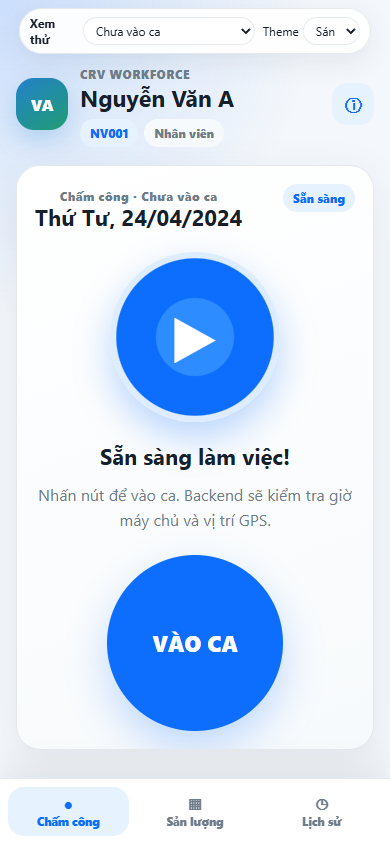
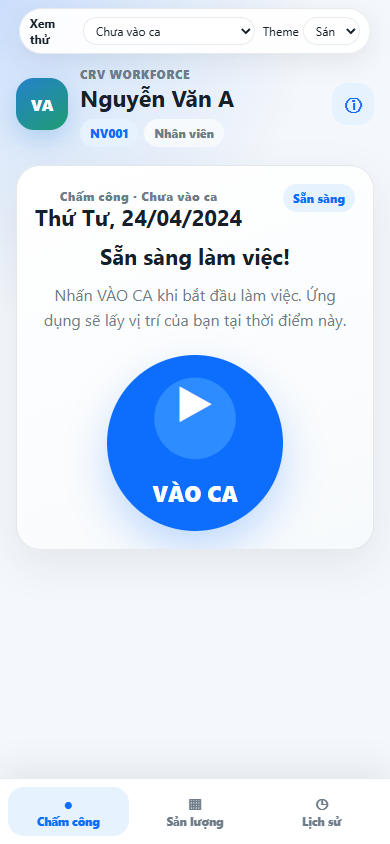
fix: mot nut VAO CA duy nhat, bo tu ky thuat tren giao dien

Changed region(s): [[0.1231, 0.2773, 0.8923, 0.8934], [0.0923, 0.5853, 0.2462, 0.6161], [0.8, 0.5853, 0.8923, 0.6161]]

diff --git a/webapp/src/features/attendance/AttendanceScreen.tsx b/webapp/src/features/attendance/AttendanceScreen.tsx
@@ -1,6 +1,6 @@
 import {useCallback, useEffect, useMemo, useState} from "react";
 import {ApiError, api} from "../../api/client";
-import {Button, Card, Chip, Metric, ScreenState, SectionTitle} from "../../components/ui";
+import {Button, Card, Chip, Metric, ScreenState} from "../../components/ui";
 import {elapsedMinutes, elapsedSeconds, temporarySalary} from "../../lib/clock";
 import {fmtClock, fmtDateLong, fmtDuration} from "../../lib/date-vn";
 import {fmtMoney} from "../../lib/format";
@@ -12,10 +12,10 @@ import type {Today, WorkSession} from "../../types/api";
 function gpsText(session?: WorkSession | null) {
   if (!session) return null;
   if (session.flags.includes("gps_out_of_range")) {
-    return {tone: "warning" as const, text: `Vị trí ngoài xưởng – đã gắn cờ · cách ${Math.round(session.check_in_distance_m)} m`};
+    return {tone: "warning" as const, text: `Vị trí ngoài xưởng – cần quản lý xem lại · cách ${Math.round(session.check_in_distance_m)} m`};
   }
   if (session.flags.includes("gps_low_accuracy")) {
-    return {tone: "warning" as const, text: "GPS sai số lớn – đã gắn cờ"};
+    return {tone: "warning" as const, text: "Vị trí chưa đủ chính xác – cần quản lý xem lại"};
   }
   return {tone: "success" as const, text: `Trong khu vực xưởng (${Math.round(session.check_in_distance_m)} m)`};
 }
@@ -131,7 +131,7 @@ export function AttendanceScreen({onNeedConsent, onCheckedOut}: {onNeedConsent: 
           {confirmOut && (
             <div className="confirm-box">
               <b>Xác nhận ra ca?</b>
-              <p>Hệ thống sẽ lấy vị trí hiện tại và khóa thời điểm ra ca theo giờ máy chủ.</p>
+              <p>Ứng dụng sẽ lấy vị trí hiện tại và ghi nhận giờ ra ca theo giờ hệ thống.</p>
             </div>
           )}
           {error && <p className="form-error">{error}</p>}
@@ -152,11 +152,26 @@ export function AttendanceScreen({onNeedConsent, onCheckedOut}: {onNeedConsent: 
           </div>
           <Chip tone={afterCutoff ? "warning" : "info"}>{afterCutoff ? "Đã qua giờ" : "Sẵn sàng"}</Chip>
         </div>
-        <div className="clock-illustration">{afterCutoff ? "☾" : "▶"}</div>
+        {afterCutoff && <div className="clock-illustration clock-illustration--decorative" aria-hidden="true">☾</div>}
         <h2>{afterCutoff ? `Đã qua ${today.checkin_cutoff}` : "Sẵn sàng làm việc!"}</h2>
-        <p className="muted">{afterCutoff ? `Không thể vào ca từ ${today.checkin_cutoff}. Vui lòng quay lại vào ngày mai.` : "Nhấn nút để vào ca. Backend sẽ kiểm tra giờ máy chủ và vị trí GPS."}</p>
+        <p className="muted">{afterCutoff ? `Không thể vào ca từ ${today.checkin_cutoff}. Vui lòng quay lại vào ngày mai.` : "Nhấn VÀO CA khi bắt đầu làm việc. Ứng dụng sẽ lấy vị trí của bạn tại thời điểm này."}</p>
         {error && <p className="form-error">{error}</p>}
-        <Button className="round-action" disabled={!today.can_check_in} busy={busy} onClick={runAction}>VÀO CA</Button>
+        <button
+          type="button"
+          className="round-action"
+          disabled={!today.can_check_in || busy}
+          aria-disabled={!today.can_check_in || busy}
+          onClick={runAction}
+        >
+          {busy ? (
+            <span className="round-action__spinner" aria-label="Đang xử lý" />
+          ) : (
+            <>
+              <span className="round-action__icon" aria-hidden="true">▶</span>
+              <span>VÀO CA</span>
+            </>
+          )}
+        </button>
       </Card>
     </div>
   );

diff --git a/webapp/src/features/manager/payroll/PayrollScreen.tsx b/webapp/src/features/manager/payroll/PayrollScreen.tsx
@@ -18,7 +18,7 @@ function payrollDone(row: PayrollSummary) {
 export function payrollStatusText(row: PayrollSummary): string {
   if (!row.has_sessions) return "Chưa có phiên";
   if (row.can_approve) return "Có thể duyệt";
-  if (row.blocked_amount > 0) return "Cần xử lý GPS";
+  if (row.blocked_amount > 0) return "Cần xem lại vị trí";
   if (payrollDone(row)) return "Đã trả hết";
   return "Chưa đủ điều kiện";
 }
@@ -122,9 +122,9 @@ export function PayrollScreen({onOpenReviewGps}: {onOpenReviewGps?: () => void} 
                   onClick={(event) => event.stopPropagation()}
                   onChange={() => setSelectedIds((ids) => checked ? ids.filter((id) => id !== row.employee_id) : [...ids, row.employee_id])}
                 />
-              ) : payrollStatusText(row) === "Cần xử lý GPS" ? (
+              ) : payrollStatusText(row) === "Cần xem lại vị trí" ? (
                 <div className="inline-actions">
-                  <Chip tone="warning">Cần xử lý GPS · {fmtMoney(row.blocked_amount)}</Chip>
+                  <Chip tone="warning">Cần xem lại vị trí · {fmtMoney(row.blocked_amount)}</Chip>
                   <Button tone="secondary" onClick={(event) => { event.stopPropagation(); onOpenReviewGps?.(); }}>Xem</Button>
                 </div>
               ) : payrollStatusText(row) === "Đã trả hết" ? (
@@ -135,7 +135,7 @@ export function PayrollScreen({onOpenReviewGps}: {onOpenReviewGps?: () => void} 
             </div>
             <div className="mini-grid">
               <Metric label="Chờ duyệt" value={fmtMoney(row.pending_amount)} tone={row.pending_amount ? "warning" : "neutral"} />
-              <Metric label="Cần xử lý GPS" value={fmtMoney(row.blocked_amount)} tone={row.blocked_amount ? "warning" : "neutral"} />
+              <Metric label="Cần xem lại vị trí" value={fmtMoney(row.blocked_amount)} tone={row.blocked_amount ? "warning" : "neutral"} />
               <Metric label="Đã trả hôm nay" value={fmtMoney(row.paid_amount)} />
             </div>
             {row.pending_reasons.filter((reason) => reason !== "open_session").map((reason) => <p key={reason} className="muted">{pendingText(reason as PayrollSummary["pending_reason"])}</p>)}

diff --git a/webapp/src/features/manager/review/ReviewScreen.tsx b/webapp/src/features/manager/review/ReviewScreen.tsx
@@ -81,7 +81,7 @@ export function ReviewScreen({initialFilter = "all"}: {initialFilter?: "all" | "
       <div className="segmented">
         {(["all", "gps", "forgot"] as const).map((key) => (
           <button key={key} className={filter === key ? "active" : ""} onClick={() => setFilter(key)}>
-            {key === "all" ? `Tất cả (${pending.length})` : key === "gps" ? `GPS (${gpsCount})` : `Quên ra ca (${forgotCount})`}
+            {key === "all" ? `Tất cả (${pending.length})` : key === "gps" ? `Vị trí (${gpsCount})` : `Quên ra ca (${forgotCount})`}
           </button>
         ))}
       </div>
@@ -99,7 +99,7 @@ export function ReviewScreen({initialFilter = "all"}: {initialFilter?: "all" | "
                 <b>{row.employee_name}</b>
                 <small>{row.employee_code} · Vào ca {fmtTime(row.check_in_at)}</small>
               </div>
-              <Chip tone={type === "gps" ? "warning" : "danger"}>{type === "gps" ? "GPS" : "Quên ra ca"}</Chip>
+              <Chip tone={type === "gps" ? "warning" : "danger"}>{type === "gps" ? "Vị trí" : "Quên ra ca"}</Chip>
             </div>
             {type === "gps" ? (
               <p className="muted">{gpsLabel(row)}</p>
@@ -109,7 +109,7 @@ export function ReviewScreen({initialFilter = "all"}: {initialFilter?: "all" | "
             {mode === "pending" && type === "gps" && <Button onClick={() => void markFlags(row)}>Đã xem</Button>}
             {mode === "pending" && type === "forgot" && <Button onClick={() => setSelected(row)}>Xử lý phiên</Button>}
             {mode === "resolved" && (
-              <p className="muted">Đã xử lý bởi {row.resolved_by_name || "—"} lúc {fmtTime(row.resolved_at)} · {row.resolved_action === "flags_reviewed" ? "Đã xem GPS" : "Đóng phiên quên"}</p>
+              <p className="muted">Đã xử lý bởi {row.resolved_by_name || "—"} lúc {fmtTime(row.resolved_at)} · {row.resolved_action === "flags_reviewed" ? "Đã xem vị trí" : "Đóng phiên quên"}</p>
             )}
             {mode === "resolved" && row.reason && <p className="muted">Lý do: {row.reason}</p>}
           </Card>

diff --git a/webapp/src/styles/globals.css b/webapp/src/styles/globals.css
@@ -246,10 +246,25 @@ input:disabled {
   box-shadow: 0 16px 36px rgba(13, 110, 253, 0.28);
 }
 
+.clock-illustration--decorative {
+  width: 118px;
+  height: 118px;
+  color: var(--crv-muted);
+  font-size: 46px;
+  background: color-mix(in srgb, var(--crv-muted) 12%, transparent);
+  box-shadow: none;
+  cursor: default;
+}
+
 .hero-card--locked .clock-illustration {
   background: radial-gradient(circle, var(--crv-primary-soft), var(--crv-card-soft));
   color: var(--crv-primary);
   box-shadow: none;
+}
+
+.hero-card--locked .clock-illustration--decorative {
+  color: var(--crv-muted);
+  background: color-mix(in srgb, var(--crv-muted) 12%, transparent);
 }
 
 .timer-block {
@@ -371,14 +386,50 @@ input:disabled {
   opacity: 1;
 }
 
-.crv-button.round-action {
+.round-action {
+  display: grid;
+  place-items: center;
+  gap: 8px;
   width: 176px;
   height: 176px;
   min-height: 176px;
   margin: 8px auto 0;
   border-radius: 50%;
+  background: radial-gradient(circle at 50% 36%, #2d8cff 0 28%, var(--crv-primary) 29% 100%);
+  color: var(--crv-primary-text);
   font-size: 22px;
+  font-weight: 950;
+  line-height: 1.05;
   box-shadow: 0 18px 40px rgba(13, 110, 253, 0.24);
+  transition: transform 0.14s ease, filter 0.14s ease, background 0.14s ease;
+}
+
+.round-action:active:not(:disabled) {
+  transform: scale(0.96);
+  filter: brightness(0.94);
+}
+
+.round-action:disabled,
+.round-action[aria-disabled="true"] {
+  background: var(--crv-disabled-bg);
+  color: var(--crv-disabled-text);
+  box-shadow: none;
+  opacity: 1;
+}
+
+.round-action__icon {
+  display: block;
+  font-size: 42px;
+  line-height: 1;
+}
+
+.round-action__spinner {
+  width: 44px;
+  height: 44px;
+  border: 4px solid color-mix(in srgb, var(--crv-primary-text) 38%, transparent);
+  border-top-color: var(--crv-primary-text);
+  border-radius: 50%;
+  animation: spin 0.8s linear infinite;
 }
 
 .back-button {
@@ -1158,7 +1209,7 @@ input:disabled {
   }
 
   .clock-illustration,
-  .crv-button.round-action {
+  .round-action {
     width: 150px;
     height: 150px;
     min-height: 150px;

diff --git a/webapp/src/features/manager/shared.tsx b/webapp/src/features/manager/shared.tsx
@@ -25,7 +25,7 @@ export function errorText(error: unknown) {
 
 export function pendingText(reason: PayrollSummary["pending_reason"]) {
   if (reason === "open_session") return "Có phiên đang mở, sẽ vào đợt sau";
-  if (reason === "unreviewed_gps") return "Có cờ GPS chưa xử lý";
+  if (reason === "unreviewed_gps") return "Có vị trí cần quản lý xem lại";
   if (reason === "forgot_checkout") return "Có phiên quên ra ca";
   return "Sẵn sàng duyệt";
 }

diff --git a/webapp/src/lib/gps-label.ts b/webapp/src/lib/gps-label.ts
@@ -16,7 +16,7 @@ export function gpsLabel(row: GpsLabelInput): string {
     const accuracy = row.flag_source === "check_out"
       ? row.check_out_accuracy_m
       : Math.max(Number(row.check_in_accuracy_m ?? 0), Number(row.check_out_accuracy_m ?? 0));
-    return `Sai số GPS lớn (±${round(accuracy)} m)`;
+    return `Sai số vị trí lớn (±${round(accuracy)} m)`;
   }
 
   if (row.flags.includes("gps_out_of_range")) {

diff --git a/webapp/src/features/manager/payroll/payroll-screen.test.ts b/webapp/src/features/manager/payroll/payroll-screen.test.ts
@@ -32,7 +32,7 @@ describe("payroll row status", () => {
       has_open_session: true,
       pending_reason: "unreviewed_gps",
       pending_reasons: ["unreviewed_gps", "open_session"],
-    })).toBe("Cần xử lý GPS");
+    })).toBe("Cần xem lại vị trí");
   });
 
   it("distinguishes employees without sessions from paid-up employees", () => {

diff --git a/webapp/src/features/history/HistoryScreen.tsx b/webapp/src/features/history/HistoryScreen.tsx
@@ -9,7 +9,7 @@ import type {History, HistorySession} from "../../types/api";
 const reasonLabels: Record<string, string> = {
   dang_mo: "Đang mở",
   cho_xu_ly: "Chờ xử lý",
-  co_co_gps: "Có cờ GPS chưa xử lý",
+  co_co_gps: "Có vị trí cần quản lý xem lại",
   cho_duyet: "Chờ duyệt",
 };
 

diff --git a/webapp/src/lib/gps-label.test.ts b/webapp/src/lib/gps-label.test.ts
@@ -24,7 +24,7 @@ describe("gps-label", () => {
       flag_source: "check_out",
       check_in_accuracy_m: 20,
       check_out_accuracy_m: 130,
-    })).toBe("Sai số GPS lớn (±130 m)");
+    })).toBe("Sai số vị trí lớn (±130 m)");
   });
 
   it("returns in-workshop text when there is no GPS flag", () => {
